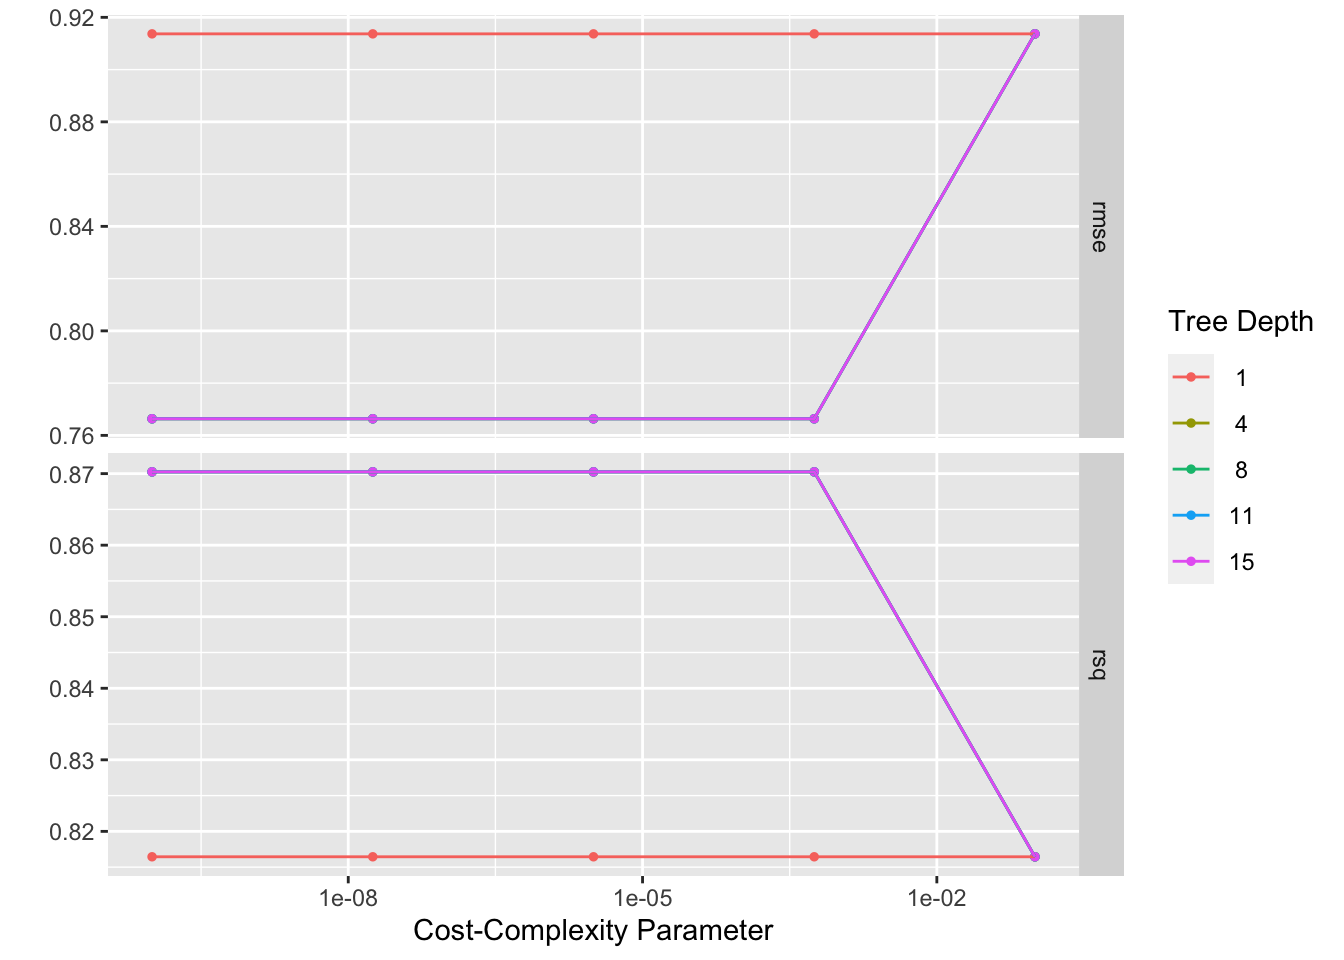
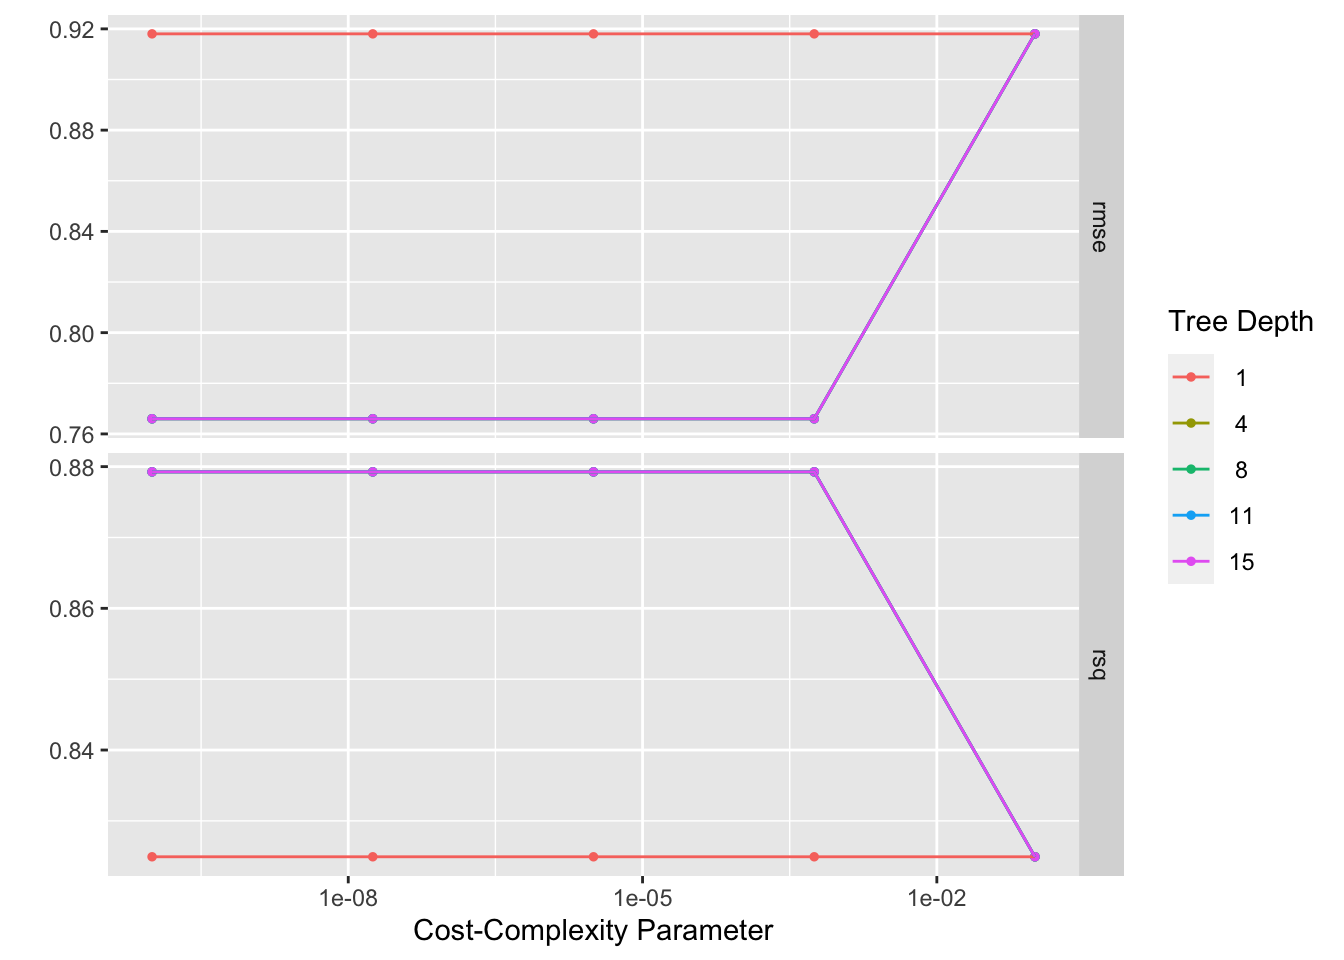
TidyTuesday 2 Updates

diff --git a/docs/tidytuesday_exercise2.html b/docs/tidytuesday_exercise2.html
@@ -720,7 +720,7 @@ $ source         &lt;chr&gt; "Egg-Markets-Overview-2019-10-19.pdf", "Egg-Markets
 <span id="cb17-2"><a href="#cb17-2" aria-hidden="true" tabindex="-1"></a>egg_date_prodprocess_plot <span class="ot">&lt;-</span> <span class="fu">ggplot</span>(egg_production, <span class="fu">aes</span>(<span class="at">x =</span> observed_month, <span class="at">y =</span> <span class="fu">log</span>(n_eggs))) <span class="sc">+</span></span>
 <span id="cb17-3"><a href="#cb17-3" aria-hidden="true" tabindex="-1"></a>  <span class="fu">geom_point</span>(<span class="fu">aes</span>(<span class="at">color =</span> prod_process)) <span class="sc">+</span></span>
 <span id="cb17-4"><a href="#cb17-4" aria-hidden="true" tabindex="-1"></a>  <span class="fu">theme_classic</span>() <span class="sc">+</span></span>
-<span id="cb17-5"><a href="#cb17-5" aria-hidden="true" tabindex="-1"></a>  <span class="fu">labs</span>(<span class="at">x =</span> <span class="st">"Date"</span>, <span class="at">y =</span> <span class="st">"Number of eggs"</span>, <span class="at">title =</span> <span class="st">"Eggs production using different production process in different years"</span>) <span class="sc">+</span></span>
+<span id="cb17-5"><a href="#cb17-5" aria-hidden="true" tabindex="-1"></a>  <span class="fu">labs</span>(<span class="at">x =</span> <span class="st">"Date"</span>, <span class="at">y =</span> <span class="st">"Number of eggs"</span>, <span class="at">title =</span> <span class="st">"Eggs production using different production process over time"</span>) <span class="sc">+</span></span>
 <span id="cb17-6"><a href="#cb17-6" aria-hidden="true" tabindex="-1"></a>  <span class="fu">theme</span>(<span class="at">axis.text =</span> <span class="fu">element_text</span>(<span class="at">face =</span> <span class="st">"bold"</span>), <span class="at">plot.title =</span> <span class="fu">element_text</span>(<span class="at">hjust =</span> <span class="fl">0.5</span>, <span class="at">size =</span> <span class="dv">14</span>),</span>
 <span id="cb17-7"><a href="#cb17-7" aria-hidden="true" tabindex="-1"></a>        <span class="at">axis.title =</span> <span class="fu">element_text</span>(<span class="at">size =</span> <span class="dv">14</span>))</span>
 <span id="cb17-8"><a href="#cb17-8" aria-hidden="true" tabindex="-1"></a>egg_date_prodprocess_plot</span></code><button title="Copy to Clipboard" class="code-copy-button"><i class="bi"></i></button></pre></div>
@@ -742,7 +742,7 @@ $ source         &lt;chr&gt; "Egg-Markets-Overview-2019-10-19.pdf", "Egg-Markets
 <span id="cb19-2"><a href="#cb19-2" aria-hidden="true" tabindex="-1"></a>hens_date_prodprocess_plot <span class="ot">&lt;-</span> <span class="fu">ggplot</span>(egg_production, <span class="fu">aes</span>(<span class="at">x =</span> observed_month, <span class="at">y =</span> <span class="fu">log</span>(n_hens))) <span class="sc">+</span></span>
 <span id="cb19-3"><a href="#cb19-3" aria-hidden="true" tabindex="-1"></a>  <span class="fu">geom_point</span>(<span class="fu">aes</span>(<span class="at">color =</span> prod_process))<span class="sc">+</span></span>
 <span id="cb19-4"><a href="#cb19-4" aria-hidden="true" tabindex="-1"></a>  <span class="fu">theme_classic</span>()<span class="sc">+</span></span>
-<span id="cb19-5"><a href="#cb19-5" aria-hidden="true" tabindex="-1"></a>  <span class="fu">labs</span>(<span class="at">x =</span> <span class="st">"Date"</span>, <span class="at">y =</span> <span class="st">"Number of hens"</span>, <span class="at">title =</span> <span class="st">"Hens production using different production process in different years"</span>) <span class="sc">+</span></span>
+<span id="cb19-5"><a href="#cb19-5" aria-hidden="true" tabindex="-1"></a>  <span class="fu">labs</span>(<span class="at">x =</span> <span class="st">"Date"</span>, <span class="at">y =</span> <span class="st">"Number of hens"</span>, <span class="at">title =</span> <span class="st">"Hens production using different production process over time"</span>) <span class="sc">+</span></span>
 <span id="cb19-6"><a href="#cb19-6" aria-hidden="true" tabindex="-1"></a>  <span class="fu">theme</span>(<span class="at">axis.text =</span> <span class="fu">element_text</span>(<span class="at">face =</span> <span class="st">"bold"</span>), <span class="at">plot.title =</span> <span class="fu">element_text</span>(<span class="at">hjust =</span> <span class="fl">0.5</span>, <span class="at">size =</span> <span class="dv">14</span>),</span>
 <span id="cb19-7"><a href="#cb19-7" aria-hidden="true" tabindex="-1"></a>        <span class="at">axis.title =</span> <span class="fu">element_text</span>(<span class="at">size =</span> <span class="dv">14</span>))</span>
 <span id="cb19-8"><a href="#cb19-8" aria-hidden="true" tabindex="-1"></a>hens_date_prodprocess_plot</span></code><button title="Copy to Clipboard" class="code-copy-button"><i class="bi"></i></button></pre></div>
@@ -817,7 +817,7 @@ $ source         &lt;chr&gt; "Egg-Markets-Overview-2019-10-19.pdf", "Egg-Markets
 </div>
 </div>
 <p><strong>RESEARCH QUESTION</strong></p>
-<p>Is there any association between the average number of eggs produced per hens, the production process, and the production types? Outcome: Average number of eggs per hen Predictor: Production type (Hatching or Table eggs), Production process (all, cage-free (non-organic), cage-free (organic))</p>
+<p>Is there any association between the average number of eggs produced per hens, the production process, and the production types? Outcome: Average number of eggs per hen Predictor: Production type (Hatching or Table eggs) and Production process (all, cage-free (non-organic), and cage-free (organic))</p>
 <div class="cell">
 <div class="sourceCode cell-code" id="cb28"><pre class="sourceCode r code-with-copy"><code class="sourceCode r"><span id="cb28-1"><a href="#cb28-1" aria-hidden="true" tabindex="-1"></a><span class="co"># Let's create a new object to with our research question</span></span>
 <span id="cb28-2"><a href="#cb28-2" aria-hidden="true" tabindex="-1"></a>eggs_per_hen_prod <span class="ot">&lt;-</span> egg_production <span class="sc">%&gt;%</span></span>
@@ -841,8 +841,8 @@ $ source         &lt;chr&gt; "Egg-Markets-Overview-2019-10-19.pdf", "Egg-Markets
 <div class="sourceCode cell-code" id="cb30"><pre class="sourceCode r code-with-copy"><code class="sourceCode r"><span id="cb30-1"><a href="#cb30-1" aria-hidden="true" tabindex="-1"></a><span class="co"># Setting the random seed to 123</span></span>
 <span id="cb30-2"><a href="#cb30-2" aria-hidden="true" tabindex="-1"></a><span class="fu">set.seed</span>(<span class="dv">123</span>)</span>
 <span id="cb30-3"><a href="#cb30-3" aria-hidden="true" tabindex="-1"></a></span>
-<span id="cb30-4"><a href="#cb30-4" aria-hidden="true" tabindex="-1"></a><span class="co"># Splitting dataset into 70% training and 30% testing</span></span>
-<span id="cb30-5"><a href="#cb30-5" aria-hidden="true" tabindex="-1"></a>data_split <span class="ot">&lt;-</span> <span class="fu">initial_split</span>(eggs_per_hen_prod, <span class="at">prop =</span> <span class="dv">7</span><span class="sc">/</span><span class="dv">10</span>)</span>
+<span id="cb30-4"><a href="#cb30-4" aria-hidden="true" tabindex="-1"></a><span class="co"># Splitting dataset</span></span>
+<span id="cb30-5"><a href="#cb30-5" aria-hidden="true" tabindex="-1"></a>data_split <span class="ot">&lt;-</span> <span class="fu">initial_split</span>(eggs_per_hen_prod, <span class="at">prop =</span> <span class="dv">3</span><span class="sc">/</span><span class="dv">4</span>)</span>
 <span id="cb30-6"><a href="#cb30-6" aria-hidden="true" tabindex="-1"></a>  </span>
 <span id="cb30-7"><a href="#cb30-7" aria-hidden="true" tabindex="-1"></a><span class="co"># Creating data frames for the two sets:</span></span>
 <span id="cb30-8"><a href="#cb30-8" aria-hidden="true" tabindex="-1"></a>train_data <span class="ot">&lt;-</span> <span class="fu">training</span>(data_split)</span>
@@ -1081,11 +1081,11 @@ $ source         &lt;chr&gt; "Egg-Markets-Overview-2019-10-19.pdf", "Egg-Markets
 <pre><code># A tibble: 2 × 6
   .metric .estimator   mean     n std_err .config             
   &lt;chr&gt;   &lt;chr&gt;       &lt;dbl&gt; &lt;int&gt;   &lt;dbl&gt; &lt;chr&gt;               
-1 rmse    standard     2.16    25  0.0532 Preprocessor1_Model1
+1 rmse    standard     2.20    25  0.0417 Preprocessor1_Model1
 2 rsq     standard   NaN        0 NA      Preprocessor1_Model1</code></pre>
 </div>
 </div>
-<p>From the null model, we got RMSE as 2.07.</p>
+<p>From the null model, we got RMSE as 2.16.</p>
 <p><strong>1. DECISION TREE MODEL</strong></p>
 <div class="cell">
 <div class="sourceCode cell-code" id="cb59"><pre class="sourceCode r code-with-copy"><code class="sourceCode r"><span id="cb59-1"><a href="#cb59-1" aria-hidden="true" tabindex="-1"></a><span class="co"># Tuning hyperparameters by creating model specification that identifies which hyperparameters we are planning to tune</span></span>
@@ -1144,11 +1144,11 @@ Computational engine: rpart </code></pre>
 <pre><code># A tibble: 5 × 8
   cost_complexity tree_depth .metric .estimator  mean     n std_err .config     
             &lt;dbl&gt;      &lt;int&gt; &lt;chr&gt;   &lt;chr&gt;      &lt;dbl&gt; &lt;int&gt;   &lt;dbl&gt; &lt;chr&gt;       
-1    0.0000000001          4 rmse    standard   0.766    25  0.0230 Preprocesso…
-2    0.0000000178          4 rmse    standard   0.766    25  0.0230 Preprocesso…
-3    0.00000316            4 rmse    standard   0.766    25  0.0230 Preprocesso…
-4    0.000562              4 rmse    standard   0.766    25  0.0230 Preprocesso…
-5    0.0000000001          8 rmse    standard   0.766    25  0.0230 Preprocesso…</code></pre>
+1    0.0000000001          4 rmse    standard   0.766    25  0.0209 Preprocesso…
+2    0.0000000178          4 rmse    standard   0.766    25  0.0209 Preprocesso…
+3    0.00000316            4 rmse    standard   0.766    25  0.0209 Preprocesso…
+4    0.000562              4 rmse    standard   0.766    25  0.0209 Preprocesso…
+5    0.0000000001          8 rmse    standard   0.766    25  0.0209 Preprocesso…</code></pre>
 </div>
 <div class="sourceCode cell-code" id="cb67"><pre class="sourceCode r code-with-copy"><code class="sourceCode r"><span id="cb67-1"><a href="#cb67-1" aria-hidden="true" tabindex="-1"></a>best_tree <span class="ot">&lt;-</span> tree_res <span class="sc">%&gt;%</span></span>
 <span id="cb67-2"><a href="#cb67-2" aria-hidden="true" tabindex="-1"></a>  <span class="fu">select_best</span>(<span class="at">metric =</span> <span class="st">"rmse"</span>)</span>
@@ -1174,7 +1174,7 @@ Computational engine: rpart </code></pre>
 <div class="sourceCode cell-code" id="cb68"><pre class="sourceCode r code-with-copy"><code class="sourceCode r"><span id="cb68-1"><a href="#cb68-1" aria-hidden="true" tabindex="-1"></a><span class="co"># Predicted outcomes</span></span>
 <span id="cb68-2"><a href="#cb68-2" aria-hidden="true" tabindex="-1"></a>predicted_fit <span class="ot">&lt;-</span> <span class="fu">predict</span>(final_fit, train_data)</span></code><button title="Copy to Clipboard" class="code-copy-button"><i class="bi"></i></button></pre></div>
 </div>
-<p>From the tree model, we got RMSE as 0.74.</p>
+<p>From the tree model, we got RMSE as 0.77.</p>
 <p><strong>2. LASSO MODEL</strong></p>
 <div class="cell">
 <div class="sourceCode cell-code" id="cb69"><pre class="sourceCode r code-with-copy"><code class="sourceCode r"><span id="cb69-1"><a href="#cb69-1" aria-hidden="true" tabindex="-1"></a><span class="co"># Building the model</span></span>
@@ -1208,11 +1208,11 @@ Computational engine: rpart </code></pre>
 <pre><code># A tibble: 5 × 7
    penalty .metric .estimator  mean     n std_err .config              
      &lt;dbl&gt; &lt;chr&gt;   &lt;chr&gt;      &lt;dbl&gt; &lt;int&gt;   &lt;dbl&gt; &lt;chr&gt;                
-1 0.0001   rmse    standard   0.766    25  0.0231 Preprocessor1_Model01
-2 0.000127 rmse    standard   0.766    25  0.0231 Preprocessor1_Model02
-3 0.000161 rmse    standard   0.766    25  0.0231 Preprocessor1_Model03
-4 0.000204 rmse    standard   0.766    25  0.0231 Preprocessor1_Model04
-5 0.000259 rmse    standard   0.766    25  0.0231 Preprocessor1_Model05</code></pre>
+1 0.0001   rmse    standard   0.766    25  0.0209 Preprocessor1_Model01
+2 0.000127 rmse    standard   0.766    25  0.0209 Preprocessor1_Model02
+3 0.000161 rmse    standard   0.766    25  0.0209 Preprocessor1_Model03
+4 0.000204 rmse    standard   0.766    25  0.0209 Preprocessor1_Model04
+5 0.000259 rmse    standard   0.766    25  0.0209 Preprocessor1_Model05</code></pre>
 </div>
 <div class="sourceCode cell-code" id="cb73"><pre class="sourceCode r code-with-copy"><code class="sourceCode r"><span id="cb73-1"><a href="#cb73-1" aria-hidden="true" tabindex="-1"></a>best_lasso <span class="ot">&lt;-</span> res_lasso <span class="sc">%&gt;%</span></span>
 <span id="cb73-2"><a href="#cb73-2" aria-hidden="true" tabindex="-1"></a>  <span class="fu">select_best</span>(<span class="at">metric =</span> <span class="st">"rmse"</span>)</span>
@@ -1236,7 +1236,7 @@ Computational engine: rpart </code></pre>
 <p><img src="tidytuesday_exercise2_files/figure-html/unnamed-chunk-11-2.png" class="img-fluid" width="672"></p>
 </div>
 </div>
-<p>From the Lasso model, we got RMSE as 0.74.</p>
+<p>From the Lasso model, we got RMSE as 0.77.</p>
 <p><strong>3. RANDOM FOREST MODEL</strong></p>
 <div class="cell">
 <div class="sourceCode cell-code" id="cb74"><pre class="sourceCode r code-with-copy"><code class="sourceCode r"><span id="cb74-1"><a href="#cb74-1" aria-hidden="true" tabindex="-1"></a><span class="co"># Detecting the cores</span></span>
@@ -1291,11 +1291,11 @@ See `?dials::finalize` or `?dials::update.parameters` for more information.</cod
 <pre><code># A tibble: 5 × 8
    mtry min_n .metric .estimator  mean     n std_err .config              
   &lt;int&gt; &lt;int&gt; &lt;chr&gt;   &lt;chr&gt;      &lt;dbl&gt; &lt;int&gt;   &lt;dbl&gt; &lt;chr&gt;                
-1     3     2 rmse    standard   0.766    25  0.0230 Preprocessor1_Model09
-2     3     5 rmse    standard   0.766    25  0.0230 Preprocessor1_Model11
-3     3    33 rmse    standard   0.766    25  0.0230 Preprocessor1_Model24
-4     3    35 rmse    standard   0.766    25  0.0230 Preprocessor1_Model12
-5     3    25 rmse    standard   0.767    25  0.0230 Preprocessor1_Model21</code></pre>
+1     3     6 rmse    standard   0.766    25  0.0209 Preprocessor1_Model01
+2     3    21 rmse    standard   0.766    25  0.0209 Preprocessor1_Model25
+3     3    27 rmse    standard   0.766    25  0.0209 Preprocessor1_Model02
+4     3     3 rmse    standard   0.766    25  0.0209 Preprocessor1_Model10
+5     3     8 rmse    standard   0.766    25  0.0209 Preprocessor1_Model15</code></pre>
 </div>
 <div class="sourceCode cell-code" id="cb84"><pre class="sourceCode r code-with-copy"><code class="sourceCode r"><span id="cb84-1"><a href="#cb84-1" aria-hidden="true" tabindex="-1"></a>best_randomforest <span class="ot">&lt;-</span> res_randomforest <span class="sc">%&gt;%</span></span>
 <span id="cb84-2"><a href="#cb84-2" aria-hidden="true" tabindex="-1"></a>  <span class="fu">select_best</span>(<span class="at">metric =</span> <span class="st">"rmse"</span>)</span>
@@ -1324,7 +1324,7 @@ See `?dials::finalize` or `?dials::update.parameters` for more information.</cod
 <div class="sourceCode cell-code" id="cb86"><pre class="sourceCode r code-with-copy"><code class="sourceCode r"><span id="cb86-1"><a href="#cb86-1" aria-hidden="true" tabindex="-1"></a><span class="co"># Predicted outcomes</span></span>
 <span id="cb86-2"><a href="#cb86-2" aria-hidden="true" tabindex="-1"></a>predicted_randomforest_fit <span class="ot">&lt;-</span> <span class="fu">predict</span>(final_randomforest_fit, train_data)</span></code><button title="Copy to Clipboard" class="code-copy-button"><i class="bi"></i></button></pre></div>
 </div>
-<p>From the random forest model, we got RMSE as 0.74.</p>
+<p>From the random forest model, we got RMSE as 0.77.</p>
 <p><strong>4. BOOSTED TREE MODEL</strong></p>
 <div class="cell">
 <div class="sourceCode cell-code" id="cb87"><pre class="sourceCode r code-with-copy"><code class="sourceCode r"><span id="cb87-1"><a href="#cb87-1" aria-hidden="true" tabindex="-1"></a><span class="co"># Building the model</span></span>
@@ -1983,11 +1983,11 @@ See `?dials::finalize` or `?dials::update.parameters` for more information.</cod
 <pre><code># A tibble: 5 × 9
   trees min_n tree_depth .metric .estimator  mean     n std_err .config         
   &lt;int&gt; &lt;int&gt;      &lt;int&gt; &lt;chr&gt;   &lt;chr&gt;      &lt;dbl&gt; &lt;int&gt;   &lt;dbl&gt; &lt;chr&gt;           
-1  1000     2          1 rmse    standard   0.766    25  0.0230 Preprocessor1_M…
-2  1000    21          1 rmse    standard   0.766    25  0.0230 Preprocessor1_M…
-3  2000     2          1 rmse    standard   0.766    25  0.0230 Preprocessor1_M…
-4  2000    21          1 rmse    standard   0.766    25  0.0230 Preprocessor1_M…
-5  1000     2          8 rmse    standard   0.766    25  0.0230 Preprocessor1_M…</code></pre>
+1  1000     2          1 rmse    standard   0.766    25  0.0209 Preprocessor1_M…
+2  1000    21          1 rmse    standard   0.766    25  0.0209 Preprocessor1_M…
+3  2000     2          1 rmse    standard   0.766    25  0.0209 Preprocessor1_M…
+4  2000    21          1 rmse    standard   0.766    25  0.0209 Preprocessor1_M…
+5  1000     2          8 rmse    standard   0.766    25  0.0209 Preprocessor1_M…</code></pre>
 </div>
 <div class="sourceCode cell-code" id="cb117"><pre class="sourceCode r code-with-copy"><code class="sourceCode r"><span id="cb117-1"><a href="#cb117-1" aria-hidden="true" tabindex="-1"></a>best_boostedtree <span class="ot">&lt;-</span> res_boostedtree <span class="sc">%&gt;%</span></span>
 <span id="cb117-2"><a href="#cb117-2" aria-hidden="true" tabindex="-1"></a>  <span class="fu">select_best</span>(<span class="at">metric =</span> <span class="st">"rmse"</span>)</span>
@@ -2001,7 +2001,7 @@ See `?dials::finalize` or `?dials::update.parameters` for more information.</cod
 <span id="cb117-10"><a href="#cb117-10" aria-hidden="true" tabindex="-1"></a>final_boostedtree_wf <span class="ot">&lt;-</span> wf_boostedtree <span class="sc">%&gt;%</span> </span>
 <span id="cb117-11"><a href="#cb117-11" aria-hidden="true" tabindex="-1"></a>  <span class="fu">finalize_workflow</span>(best_boostedtree)</span></code><button title="Copy to Clipboard" class="code-copy-button"><i class="bi"></i></button></pre></div>
 </div>
-<p>From the boosted model, we got RMSE as 0.74.</p>
+<p>From the boosted model, we got RMSE as 0.77.</p>
 <p><strong>COMPARING MODELS</strong></p>
 <div class="cell">
 <div class="sourceCode cell-code" id="cb118"><pre class="sourceCode r code-with-copy"><code class="sourceCode r"><span id="cb118-1"><a href="#cb118-1" aria-hidden="true" tabindex="-1"></a>models_summary <span class="ot">&lt;-</span> <span class="fu">bind_rows</span>(best_decisiontree, best_lasso, best_randomforestmodel, best_boostedtree)</span>
@@ -2010,16 +2010,16 @@ See `?dials::finalize` or `?dials::update.parameters` for more information.</cod
 <pre><code># A tibble: 4 × 4
   .metric  mean std_err model              
   &lt;chr&gt;   &lt;dbl&gt;   &lt;dbl&gt; &lt;chr&gt;              
-1 rmse    0.766  0.0230 Decision Tree Model
-2 rmse    0.766  0.0231 Lasso Model        
-3 rmse    0.766  0.0230 Random Forest Model
-4 rmse    0.766  0.0230 Boosted Tree Model </code></pre>
+1 rmse    0.766  0.0209 Decision Tree Model
+2 rmse    0.766  0.0209 Lasso Model        
+3 rmse    0.766  0.0209 Random Forest Model
+4 rmse    0.766  0.0209 Boosted Tree Model </code></pre>
 </div>
 </div>
-<p>We got rmse from our Null model as 2.07 and based on the above summary table, all the other 4 models performed better compared to the null model. There was almost no difference among those 4 models. However, Decision tree model and Boosted tree model performed the same with similar standard error. I chose Decision tree model as the best model due to its easy interpretation, robustness, and less risk of over fitting issues.</p>
+<p>We got rmse from our Null model as 2.16 and based on the above summary table, all the other 4 models performed better compared to the null model. There was almost no difference among those 4 models. I chose Decision tree model as the best model due to its easy interpretation, robustness, and less risk of over fitting issues.</p>
 <p><strong>FINAL EVALUATION</strong></p>
 <div class="cell">
-<div class="sourceCode cell-code" id="cb120"><pre class="sourceCode r code-with-copy"><code class="sourceCode r"><span id="cb120-1"><a href="#cb120-1" aria-hidden="true" tabindex="-1"></a><span class="co"># Fitting the final Decision tree model on split data</span></span>
+<div class="sourceCode cell-code" id="cb120"><pre class="sourceCode r code-with-copy"><code class="sourceCode r"><span id="cb120-1"><a href="#cb120-1" aria-hidden="true" tabindex="-1"></a><span class="co"># Fitting the final Lasso model on test data</span></span>
 <span id="cb120-2"><a href="#cb120-2" aria-hidden="true" tabindex="-1"></a>final_decisiontree_test <span class="ot">&lt;-</span> final_wf <span class="sc">%&gt;%</span> <span class="fu">last_fit</span>(data_split) </span>
 <span id="cb120-3"><a href="#cb120-3" aria-hidden="true" tabindex="-1"></a></span>
 <span id="cb120-4"><a href="#cb120-4" aria-hidden="true" tabindex="-1"></a>final_decisiontree_test <span class="sc">%&gt;%</span> <span class="fu">collect_metrics</span>()</span></code><button title="Copy to Clipboard" class="code-copy-button"><i class="bi"></i></button></pre></div>
@@ -2027,13 +2027,12 @@ See `?dials::finalize` or `?dials::update.parameters` for more information.</cod
 <pre><code># A tibble: 2 × 4
   .metric .estimator .estimate .config             
   &lt;chr&gt;   &lt;chr&gt;          &lt;dbl&gt; &lt;chr&gt;               
-1 rmse    standard       0.716 Preprocessor1_Model1
-2 rsq     standard       0.899 Preprocessor1_Model1</code></pre>
+1 rmse    standard       0.705 Preprocessor1_Model1
+2 rsq     standard       0.894 Preprocessor1_Model1</code></pre>
 </div>
 </div>
-<p>From the above final model, we got RMSE as 0.78.</p>
 <p><strong>DISCUSSION</strong></p>
-<p>The TidyTuesday data for week 15 was imported for this exercise. Data exploration, wrangling, and visualization was done. Data plots showed differences in the average number of eggs per hens by production type and process so research question was developed to see if there occurs any association. Null linear model was run for metrics comparison. Along with the null model, 4 other models (Decision tree, Lasso, Random forest, and Boosted tree models) were performed. Based on the RMSE and easy interpretation, decision tree model was selected which performed much better than the null model and this model could be used to address our research question.</p>
+<p>The TidyTuesday data for week 15 was imported for this exercise. Data exploration, wrangling, and visualization was done. Data plots showed differences in the average number of eggs per hens by production type and process so research question was developed to see if there occurs any association. Null linear model was run for metrics comparison. Along with the null model, 4 other models (Decision tree, Lasso, Random forest, and Boosted tree models) were performed. Based on the RMSE and easy interpretation, Decision tree model was selected which performed much better than the null model and this model could be used to address our research question.</p>
 
 
 
